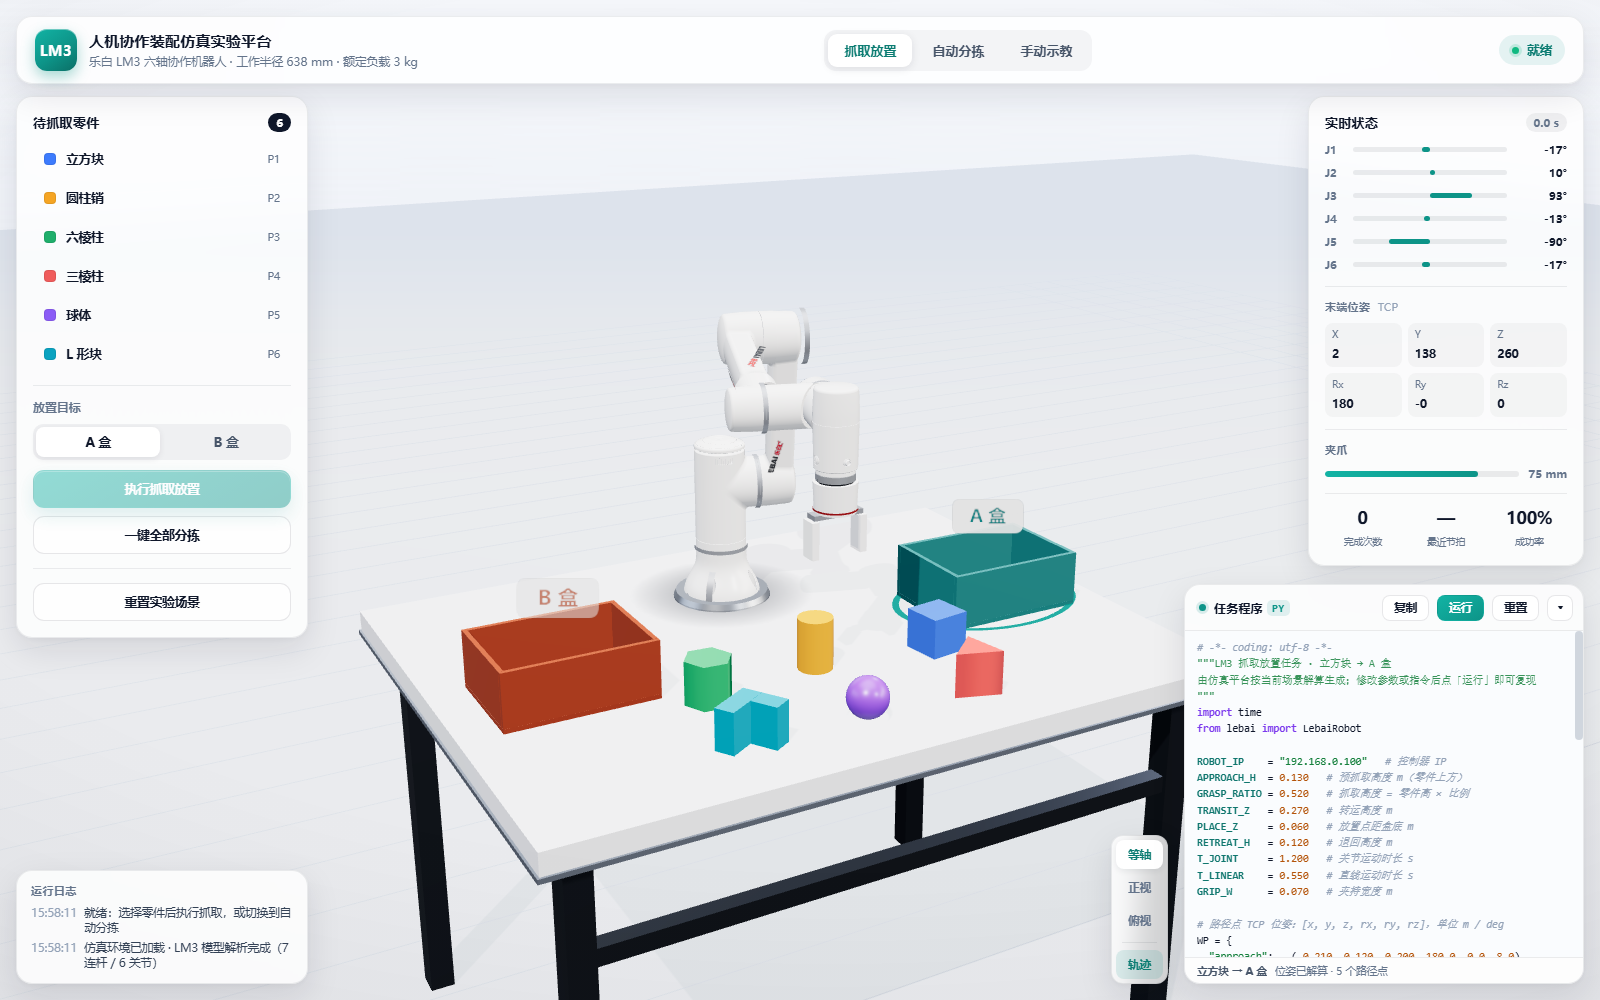
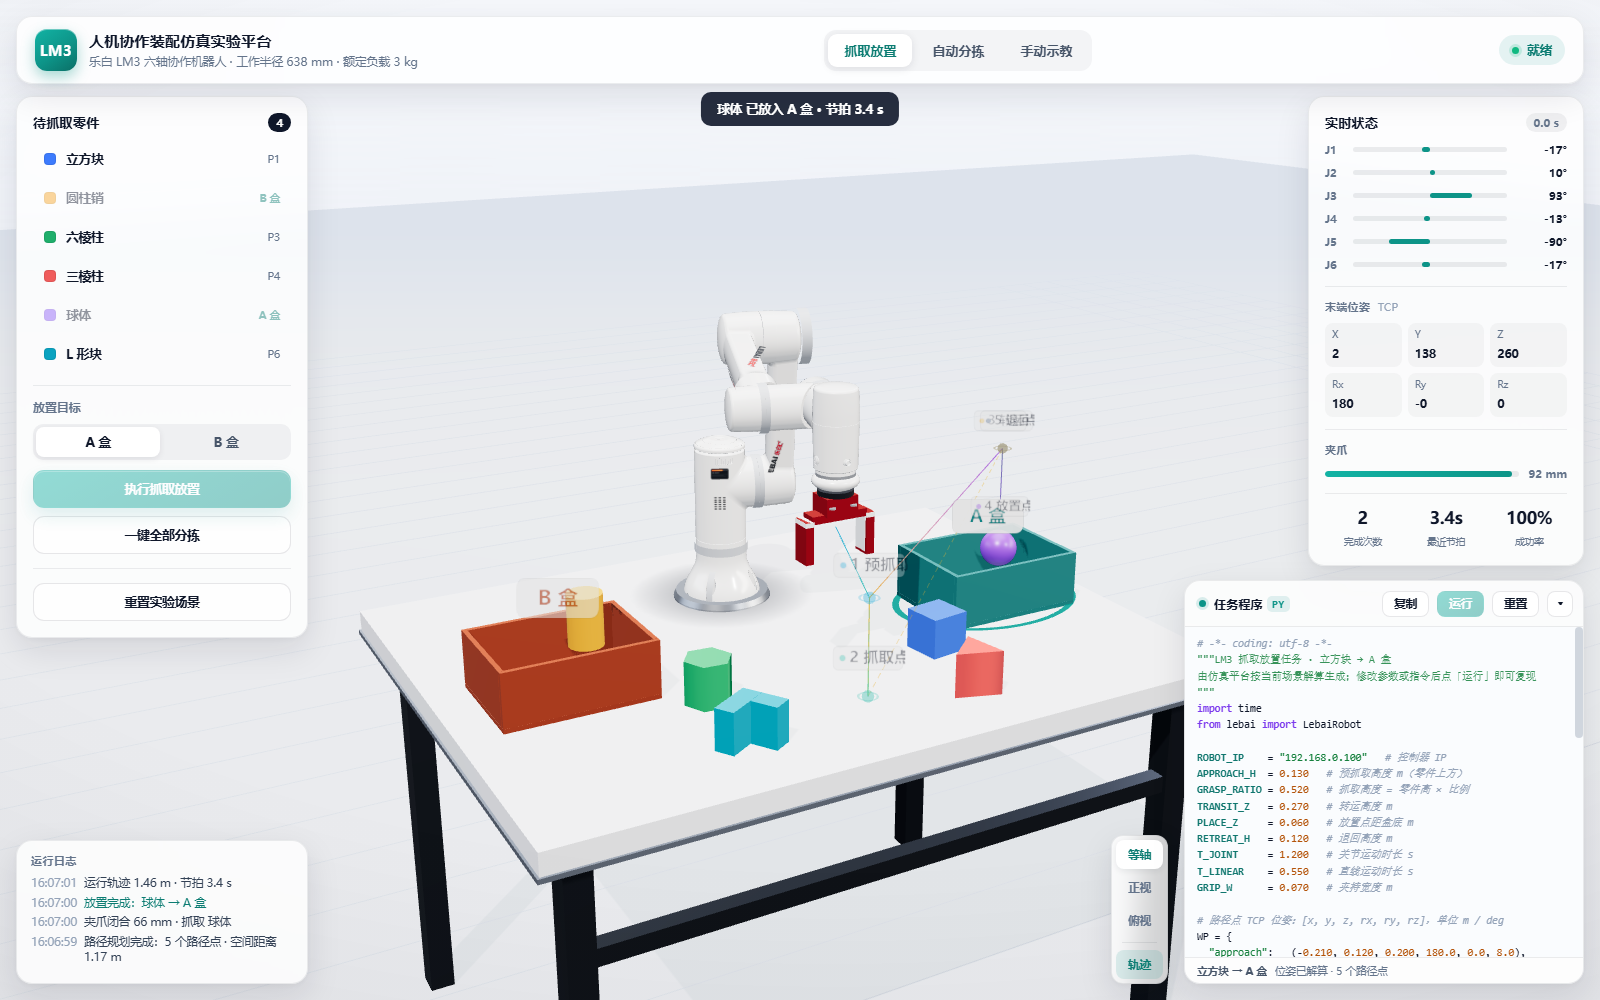
按官方渲染图优化 LM3 建模
- 壳体改亮面白（roughness 0.18 / clearcoat 0.72），关节环带加宽并调浅灰，贴近官方渲染
- 末端按图重做：白色腕部圆顶盖 + 深色转接环 + 红色两指夹爪（红指身、白指尖、银色螺钉）
- 新增肩部橙色状态屏与 3×6 散热格栅（按世界高度射线贴合柱面）
- 抓放自检连续两次成功、无 console 错误；更新截图与 README

diff --git a/js/robot.js b/js/robot.js
@@ -7,23 +7,23 @@ const easeInOut = (t) => (t < 0.5 ? 4 * t * t * t : 1 - Math.pow(-2 * t + 2, 3) 
 const nextFrame = () => new Promise((r) => requestAnimationFrame(r));
 
 const MAT = {
-  // 缎面注塑白（对齐 LEBAI 官方渲染：柔和哑光 + 轻微清漆）
+  // 亮面注塑白（对齐官方渲染图：柔和强高光 + 清漆层）
   shell: new THREE.MeshPhysicalMaterial({
-    color: 0xfbfcfe, roughness: 0.3, metalness: 0.0,
-    clearcoat: 0.35, clearcoatRoughness: 0.25, envMapIntensity: 1.0,
+    color: 0xfdfeff, roughness: 0.18, metalness: 0.02,
+    clearcoat: 0.72, clearcoatRoughness: 0.12, envMapIntensity: 1.15,
   }),
   base: null, // 与壳体同色，见下方赋值
-  // 关节分隔环带：浅银灰（官方图中的灰色关节环）
-  band: new THREE.MeshPhysicalMaterial({ color: 0xb6bcc6, roughness: 0.38, metalness: 0.5, clearcoat: 0.25 }),
+  // 关节环带：较宽的浅灰哑光塑料环（官方渲染中的灰色关节包边）
+  band: new THREE.MeshPhysicalMaterial({ color: 0xc6ccd4, roughness: 0.48, metalness: 0.1, clearcoat: 0.12 }),
   flange: new THREE.MeshPhysicalMaterial({ color: 0xcdd3db, roughness: 0.26, metalness: 0.6, clearcoat: 0.25 }),
   dark: new THREE.MeshPhysicalMaterial({ color: 0x2a2f37, roughness: 0.4, metalness: 0.4 }),
-  // 夹爪联动臂：乐白夹爪的红色阳极氧化铝
-  finger: new THREE.MeshPhysicalMaterial({ color: 0xb5342a, roughness: 0.26, metalness: 0.7, clearcoat: 0.35 }),
+  // 夹爪：乐白红色阳极氧化铝
+  finger: new THREE.MeshPhysicalMaterial({ color: 0xcf352a, roughness: 0.28, metalness: 0.55, clearcoat: 0.35 }),
   accent: new THREE.MeshPhysicalMaterial({ color: 0xc0392b, roughness: 0.3, metalness: 0.5 }),
   // 基座状态 LED 环（乐白「灯光交互」元素）
   led: new THREE.MeshStandardMaterial({ color: 0x0b3035, emissive: 0x2ad3c8, emissiveIntensity: 1.1, roughness: 0.35, metalness: 0.1 }),
   // 夹爪垫：浅灰阻尼面
-  pad: new THREE.MeshStandardMaterial({ color: 0xdadfe6, roughness: 0.55, metalness: 0.05 }),
+  pad: new THREE.MeshStandardMaterial({ color: 0xe6e9ee, roughness: 0.55, metalness: 0.05 }),
 };
 MAT.base = MAT.shell;
 
@@ -89,7 +89,8 @@ export class Robot {
   buildLivery() {
     const J = JOINTS_MODEL; // 模型坐标
     const radial = [0.046, 0.046, 0.046, 0.0375, 0.0365, 0.0315];
-    const heights = [0.007, 0.009, 0.009, 0.008, 0.008, 0.007];
+    // 官方渲染中的灰色关节包边较宽（约 15–20 mm）
+    const heights = [0.016, 0.018, 0.018, 0.015, 0.014, 0.012];
     const up = new THREE.Vector3(0, 1, 0);
     const bandGeoCache = new Map();
 
@@ -128,6 +129,112 @@ export class Robot {
     const logoMat = this.makeLogoMaterial();
     this.addLogo(this.links[2], new THREE.Vector3(...J[1].p), new THREE.Vector3(...J[2].p), 0.080, logoMat, 0.22);
     this.addLogo(this.links[3], new THREE.Vector3(...J[2].p), new THREE.Vector3(...J[3].p), 0.086, logoMat, 0.58);
+
+    // 肩部交互屏（橙色灯带）与散热格栅——对齐官方渲染图的机身细节
+    // 列柱轴线位于底座中心，按世界高度向轴线打射线，贴到真实柱面
+    const col = new THREE.Vector3(0, -0.28, 0);
+    const face = new THREE.Vector3(0.44, 0.9, 0);
+    this.addColumnDecal(this.links[1], col, 0.248, face, 0.032, 0.02, this.makeScreenMaterial());
+    this.addColumnDecal(this.links[1], col, 0.192, face, 0.026, 0.028, this.makeVentMaterial());
+  }
+
+  /** 在竖直圆柱面上贴片：按世界高度向轴线打射线，找到朝向 faceDir 的柱面并贴合 */
+  addColumnDecal(mesh, axis, zWorld, faceDir, width, height, mat) {
+    if (!mesh) return;
+    mesh.updateMatrixWorld(true);
+    const dir = new THREE.Vector3(faceDir.x, faceDir.y, 0).normalize();
+    const target = new THREE.Vector3(axis.x, axis.y, zWorld);
+    const ray = new THREE.Raycaster(target.clone().addScaledVector(dir, 0.6), dir.clone().negate(), 0, 1.2);
+    const hit = ray.intersectObject(mesh, false)[0];
+    if (!hit || !hit.face) return;
+
+    const nWorld = hit.face.normal.clone().transformDirection(mesh.matrixWorld).normalize();
+    const inv = new THREE.Matrix4().copy(mesh.matrixWorld).invert();
+    const pLocal = hit.point.clone().applyMatrix4(inv);
+    const nLocal = nWorld.clone().transformDirection(inv).normalize();
+
+    // 水平切向 + 竖直方向构成贴片基
+    const up = new THREE.Vector3(0, 0, 1);
+    const xAxis = new THREE.Vector3().crossVectors(up, nLocal).normalize();
+    const yAxis = new THREE.Vector3().crossVectors(nLocal, xAxis).normalize();
+
+    const plane = new THREE.Mesh(new THREE.PlaneGeometry(width, height), mat);
+    plane.position.copy(pLocal).addScaledVector(nLocal, 0.0022);
+    plane.quaternion.setFromRotationMatrix(new THREE.Matrix4().makeBasis(xAxis, yAxis, nLocal));
+    plane.renderOrder = 3;
+    mesh.add(plane);
+  }
+
+  makeScreenMaterial() {
+    const c = document.createElement('canvas');
+    c.width = 512; c.height = 288;
+    const g = c.getContext('2d');
+    g.clearRect(0, 0, 512, 288);
+    // 深色玻璃面板
+    const r = 40;
+    g.fillStyle = '#1a1f26';
+    g.beginPath();
+    g.moveTo(r, 8); g.lineTo(512 - r, 8); g.quadraticCurveTo(504, 8, 504, 8 + r);
+    g.lineTo(504, 280 - r); g.quadraticCurveTo(504, 280, 512 - r, 280);
+    g.lineTo(r, 280); g.quadraticCurveTo(8, 280, 8, 280 - r);
+    g.lineTo(8, 8 + r); g.quadraticCurveTo(8, 8, r, 8);
+    g.closePath(); g.fill();
+    // 橙色状态灯带（官方渲染中的暖色高亮）
+    const grad = g.createLinearGradient(30, 0, 482, 0);
+    grad.addColorStop(0, '#ff6a1f');
+    grad.addColorStop(0.6, '#ff9a4d');
+    grad.addColorStop(1, '#ff5a12');
+    g.fillStyle = grad;
+    g.fillRect(34, 34, 300, 20);
+    // 其余指示灯
+    g.fillStyle = 'rgba(255,255,255,0.18)';
+    g.fillRect(350, 34, 60, 20);
+    g.fillRect(424, 34, 54, 20);
+    // 文本行
+    g.fillStyle = 'rgba(255,255,255,0.32)';
+    g.font = '600 34px Arial';
+    g.fillText('LM3  READY', 36, 128);
+    g.fillStyle = 'rgba(255,255,255,0.12)';
+    g.fillRect(36, 156, 440, 8);
+    g.fillRect(36, 180, 330, 8);
+    g.fillRect(36, 204, 390, 8);
+    const tex = new THREE.CanvasTexture(c);
+    tex.colorSpace = THREE.SRGBColorSpace;
+    tex.anisotropy = 8;
+    return new THREE.MeshStandardMaterial({
+      map: tex, transparent: true, roughness: 0.22, metalness: 0.1,
+      emissive: 0xffffff, emissiveMap: tex, emissiveIntensity: 0.35,
+      depthWrite: false, polygonOffset: true, polygonOffsetFactor: -4, polygonOffsetUnits: -4,
+    });
+  }
+
+  makeVentMaterial() {
+    const c = document.createElement('canvas');
+    c.width = 256; c.height = 296;
+    const g = c.getContext('2d');
+    g.clearRect(0, 0, 256, 296);
+    g.fillStyle = 'rgba(38, 44, 52, 0.85)';
+    for (let col = 0; col < 3; col++) {
+      for (let row = 0; row < 6; row++) {
+        const x = 26 + col * 76;
+        const y = 18 + row * 44;
+        const r = 7;
+        g.beginPath();
+        g.moveTo(x + r, y);
+        g.arcTo(x + 44, y, x + 44, y + 20, r);
+        g.arcTo(x + 44, y + 20, x, y + 20, r);
+        g.arcTo(x, y + 20, x, y, r);
+        g.arcTo(x, y, x + 44, y, r);
+        g.fill();
+      }
+    }
+    const tex = new THREE.CanvasTexture(c);
+    tex.colorSpace = THREE.SRGBColorSpace;
+    tex.anisotropy = 8;
+    return new THREE.MeshStandardMaterial({
+      map: tex, transparent: true, roughness: 0.5, metalness: 0.2,
+      depthWrite: false, polygonOffset: true, polygonOffsetFactor: -4, polygonOffsetUnits: -4,
+    });
   }
 
   makeLogoMaterial() {
@@ -242,29 +349,40 @@ export class Robot {
       g.add(m);
       return m;
     };
-    // 法兰连接盘（银色金属）
-    add(new THREE.CylinderGeometry(0.032, 0.032, 0.011, 40), MAT.flange, [0, 0, 0.0055], [Math.PI / 2, 0, 0]);
-    // 分件线（深色接缝）
-    add(new THREE.CylinderGeometry(0.029, 0.029, 0.003, 32), MAT.dark, [0, 0, 0.013], [Math.PI / 2, 0, 0]);
-    // 白色圆筒本体（与机身同涂装，贴合官方首页渲染）
-    add(new THREE.CylinderGeometry(0.034, 0.036, 0.05, 40), MAT.shell, [0, 0, 0.039], [Math.PI / 2, 0, 0]);
-    // 品牌细红环（仅一线，呼应 LEBAI 标识）
-    add(new THREE.CylinderGeometry(0.0362, 0.0362, 0.0028, 40, 1, true), MAT.accent, [0, 0, 0.058], [Math.PI / 2, 0, 0]);
-    // 下部导轨（浅灰）
-    add(new THREE.BoxGeometry(0.088, 0.024, 0.008), MAT.band, [0, 0, 0.067]);
+    // 腕部白色圆顶盖（官方渲染中腕末的圆盖）
+    const dome = add(new THREE.SphereGeometry(0.038, 40, 20), MAT.shell, [0, 0, 0.012]);
+    dome.scale.set(1, 1, 0.44);
+    // 银色法兰圈
+    add(new THREE.CylinderGeometry(0.032, 0.032, 0.012, 40), MAT.flange, [0, 0, 0.0045], [Math.PI / 2, 0, 0]);
+    // 深色转接环
+    add(new THREE.CylinderGeometry(0.029, 0.029, 0.009, 32), MAT.dark, [0, 0, 0.031], [Math.PI / 2, 0, 0]);
+    // 红色夹爪本体
+    add(new THREE.BoxGeometry(0.056, 0.046, 0.03), MAT.finger, [0, 0, 0.05]);
+    // 红色导轨横梁（两指滑移的导向座）
+    add(new THREE.BoxGeometry(0.098, 0.03, 0.013), MAT.finger, [0, 0, 0.069]);
+    // 本体侧面的银色螺钉
+    for (const s of [-1, 1]) {
+      add(new THREE.CylinderGeometry(0.0055, 0.0055, 0.003, 16), MAT.flange, [s * 0.019, -0.0235, 0.05], [Math.PI / 2, 0, 0]);
+      add(new THREE.CylinderGeometry(0.0035, 0.0035, 0.003, 12), MAT.flange, [s * 0.017, 0.0235, 0.05], [Math.PI / 2, 0, 0]);
+    }
 
-    // 两指平行夹爪：白色指身 + 灰色夹垫
+    // 两指：红色指身 + 浅色夹垫
     this.fingers = [];
     for (const s of [-1, 1]) {
-      const f = new THREE.Mesh(new THREE.BoxGeometry(0.012, 0.03, 0.062), MAT.shell);
-      f.castShadow = true;
-      f.receiveShadow = false;
-      f.position.set(s * 0.043, 0, 0.104);
-      g.add(f);
-      const pad = new THREE.Mesh(new THREE.BoxGeometry(0.002, 0.024, 0.056), MAT.pad);
-      pad.position.set(-s * 0.007, 0, -0.002);
-      f.add(pad);
-      this.fingers.push({ mesh: f, side: s });
+      const jaw = new THREE.Mesh(new THREE.BoxGeometry(0.014, 0.034, 0.07), MAT.finger);
+      jaw.castShadow = true;
+      jaw.receiveShadow = false;
+      jaw.position.set(s * 0.045, 0, 0.105);
+      g.add(jaw);
+      // 夹垫（内侧浅灰面）
+      const pad = new THREE.Mesh(new THREE.BoxGeometry(0.002, 0.028, 0.06), MAT.pad);
+      pad.position.set(-s * 0.008, 0, 0);
+      jaw.add(pad);
+      // 指尖端白色端帽
+      const tip = new THREE.Mesh(new THREE.BoxGeometry(0.015, 0.036, 0.008), MAT.shell);
+      tip.position.set(0, 0, -0.031);
+      jaw.add(tip);
+      this.fingers.push({ mesh: jaw, side: s });
     }
   }
 
@@ -278,9 +396,9 @@ export class Robot {
 
   applyGripper() {
     if (!this.fingers) return;
-    // 平行夹爪：指沿导轨对称滑移，夹垫内工作面间距 = 开合量
+    // 平行夹爪：指沿导轨对称滑移，使夹垫内工作面间距 = 开合量
     for (const { mesh, side } of this.fingers) {
-      mesh.position.x = side * (this.gripperOpen / 2 + 0.006);
+      mesh.position.x = side * (this.gripperOpen / 2 + 0.009);
     }
   }
 

diff --git a/README.md b/README.md
@@ -44,8 +44,8 @@ python -m http.server 8123
 | 元素 | 说明 |
 | --- | --- |
 | 操作桌面 | 1220 × 940 mm 工作台，台面为安装基准面（z = 0），带桌腿与横梁 |
-| LM3 机器人 | 来自 `乐白机器人三维模型-LM3.stp`，7 个连杆（ARM0–ARM6）、6 个旋转关节，高约 895 mm；涂装对齐官网渲染图：缎面白机身 + 关节浅银灰环带 + 深灰 LEBAI 标识（红色图形字）+ 基座呼吸状态灯环 |
-| 末端夹爪 | 紧凑型白色平行夹爪（贴合官方首页 LM3 渲染：白色圆筒本体 + 细红环点缀 + 灰色夹垫），开口 14–95 mm |
+| LM3 机器人 | 来自 `乐白机器人三维模型-LM3.stp`，7 个连杆（ARM0–ARM6）、6 个旋转关节，高约 895 mm；涂装对齐官网渲染图：亮面白机身 + 宽浅灰关节环带 + 深灰 LEBAI 标识（红色图形字）+ 肩部橙色状态屏与散热格栅 + 基座呼吸灯环 |
+| 末端夹爪 | 红色两指平行夹爪（对齐官方渲染：白色腕部圆顶盖 + 红色指身与白色指尖 + 银色螺钉），开口 14–95 mm |
 | 待抓零件 | 立方块、圆柱销、六棱柱、三棱柱、球体、L 形块，共 6 件，尺寸 55–90 mm，分两排布置在机器人正前方 |
 | 料盒 | A 盒（青）、B 盒（陶土红），260 × 190 × 100 mm，每个盒子 2×2 放置位 |
 
